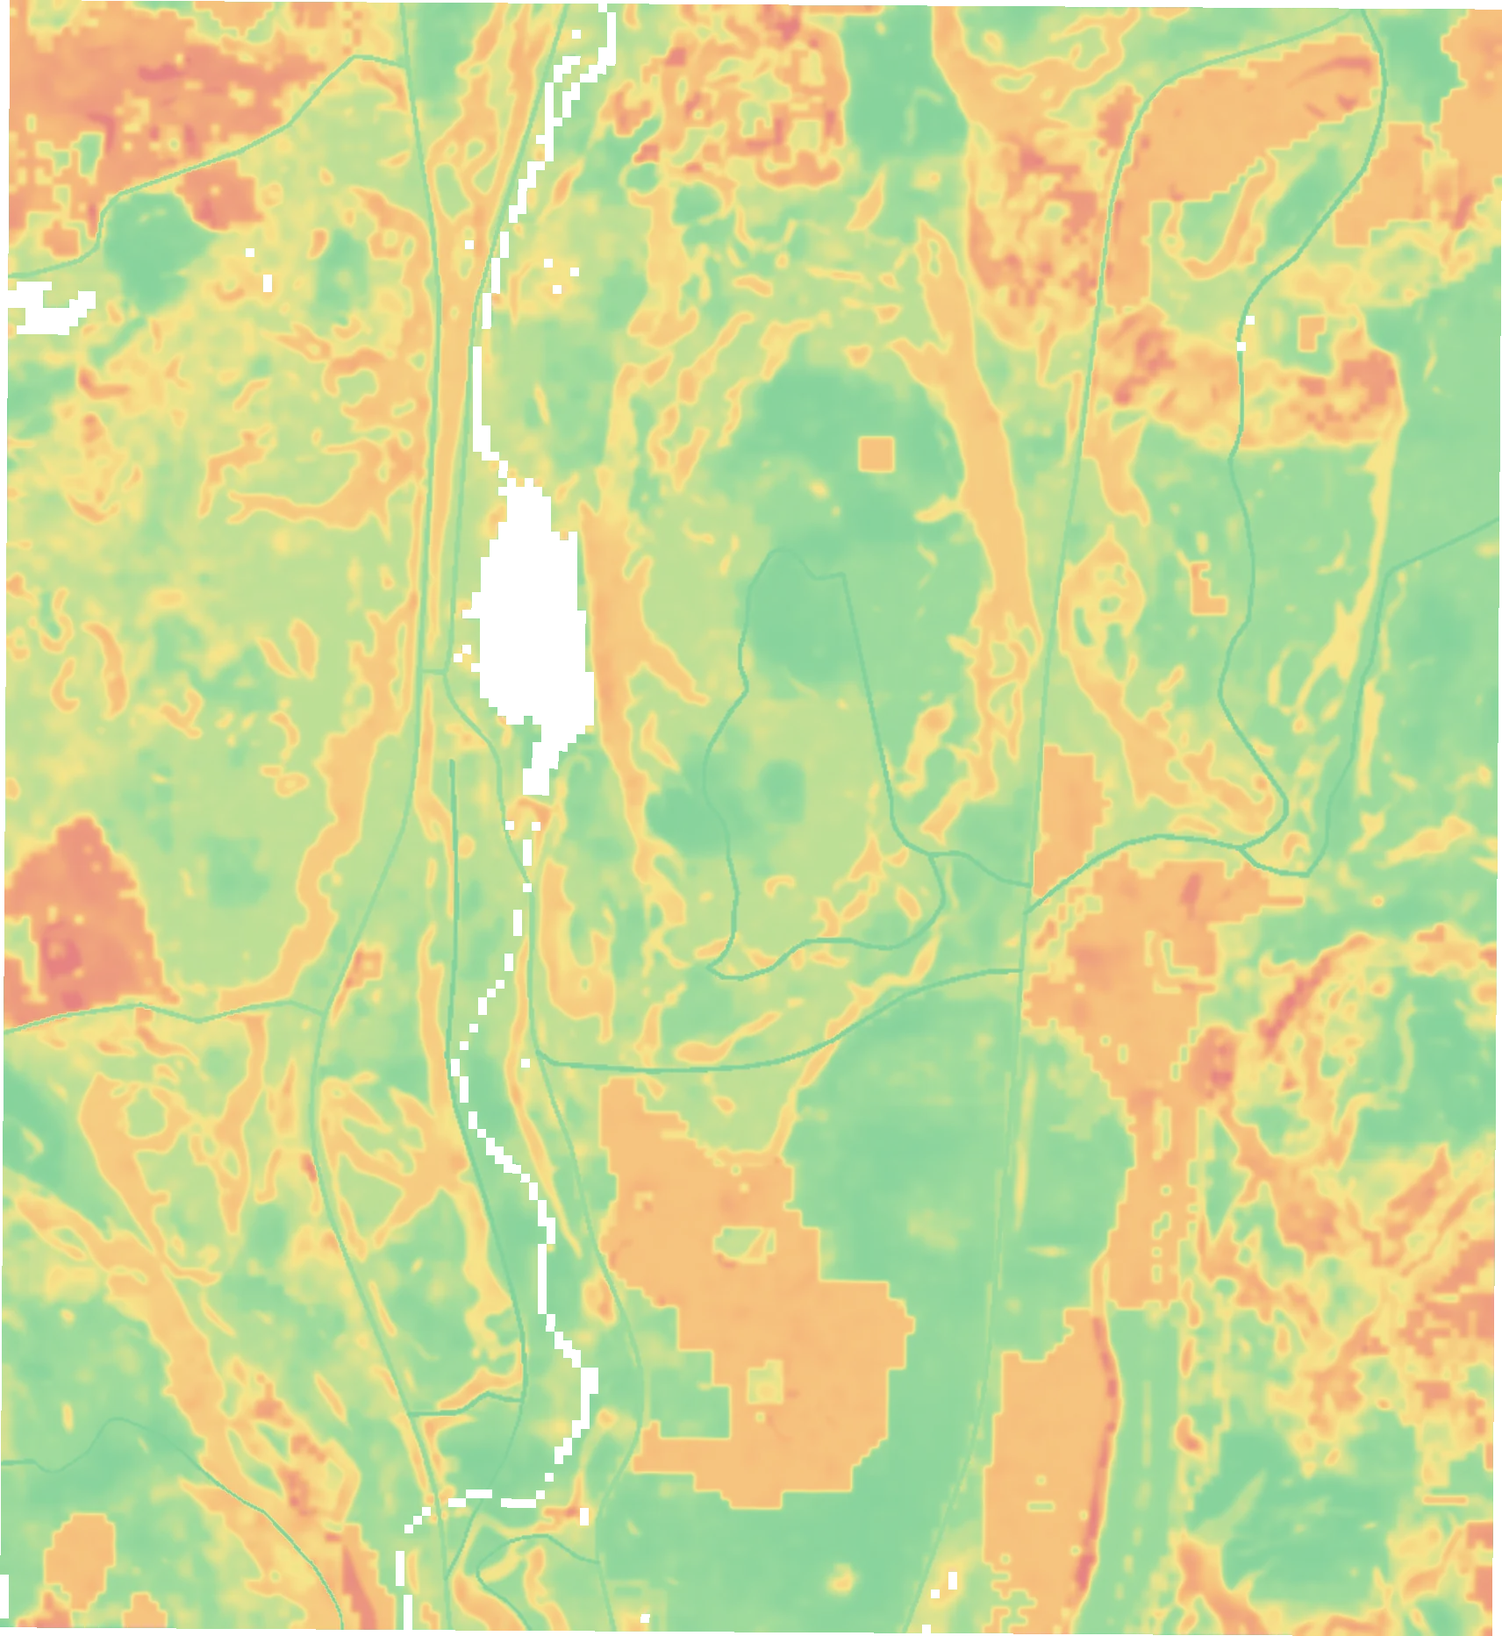
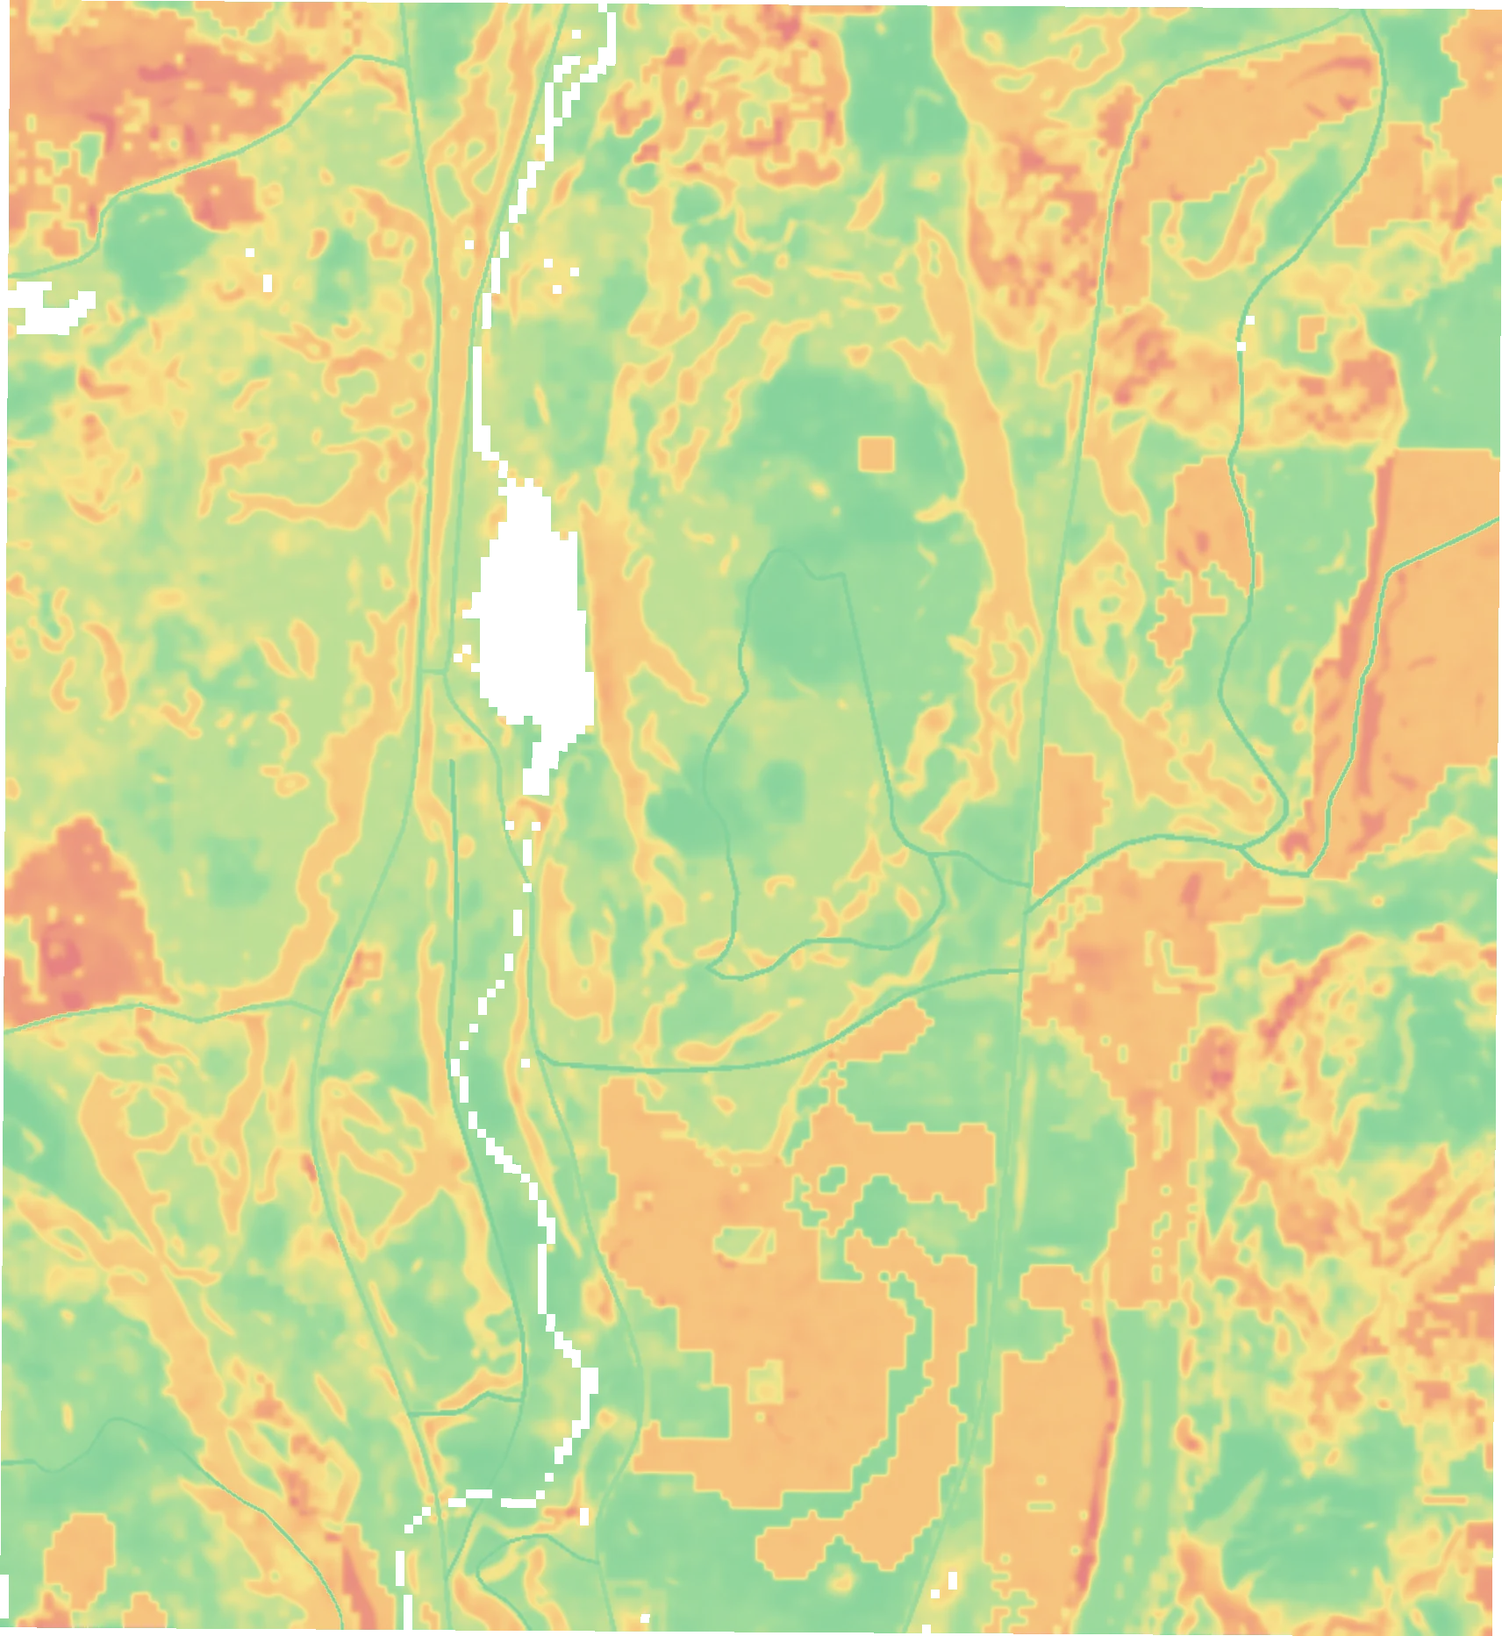
Satellite base map, new clearcuts since 2023 fed into forest map, Viltstigar and Tyst mark

diff --git a/sw.js b/sw.js
@@ -1,10 +1,10 @@
-// Offline support for the family map (filled in by scripts/build_site.py: 38f4895b72, 45dd3edf27, {"app": ["./", "version.json", "manifest.webmanifest", "firebase-config.js", "icon-180.png", "icon-192.png", "icon-512.png", "app.css?v=38f4895b72", "app.js?v=38f4895b72", "geo.js?v=38f4895b72", "i18n.js?v=38f4895b72", "jakt.js?v=38f4895b72", "maplibre-gl.css?v=38f4895b72", "view.js?v=38f4895b72", "wind.js?v=38f4895b72", "fb.js?v=38f4895b72"], "ext": ["https://cdnjs.cloudflare.com/ajax/libs/maplibre-gl/5.24.0/maplibre-gl.js", "https://fonts.googleapis.com/css2?family=Barlow+Condensed:wght@600;700&family=Barlow+Semi+Condensed:wght@400;500;600;700&family=IBM+Plex+Mono:wght@400;500&display=swap", "https://www.gstatic.com/firebasejs/11.0.2/firebase-app.js", "https://www.gstatic.com/firebasejs/11.0.2/firebase-auth.js", "https://www.gstatic.com/firebasejs/11.0.2/firebase-firestore.js"], "data": ["data/areas.json", "data/alnaryd/contours.geojson", "data/alnaryd/drainage.geojson", "data/alnaryd/forest_0_0.webp", "data/alnaryd/game.geojson", "data/alnaryd/game_0_0.png", "data/alnaryd/gamezones.geojson", "data/alnaryd/height_0_0.webp", "data/alnaryd/info.png", "data/alnaryd/manifest.json", "data/alnaryd/osm.geojson", "data/alnaryd/quiet_dry_0_0.webp", "data/alnaryd/quiet_wet_0_0.webp", "data/alnaryd/relief_0_0.webp", "data/alnaryd/reserves.geojson", "data/alnaryd/steep_0_0.png", "data/alnaryd/terrain.png", "data/alnaryd/wet_0_0.png", "data/alnaryd/wind.json", "data/alnaryd/wind.png", "glyphs/0-255.txt", "glyphs/256-511.txt"]}, [[15.398225, 56.334191, 15.465921999999999, 56.374908, 8, 15]]).
+// Offline support for the family map (filled in by scripts/build_site.py: 5fc6154494, 883bdf03be, {"app": ["./", "version.json", "manifest.webmanifest", "firebase-config.js", "icon-180.png", "icon-192.png", "icon-512.png", "app.css?v=5fc6154494", "app.js?v=5fc6154494", "geo.js?v=5fc6154494", "i18n.js?v=5fc6154494", "jakt.js?v=5fc6154494", "maplibre-gl.css?v=5fc6154494", "view.js?v=5fc6154494", "wind.js?v=5fc6154494", "fb.js?v=5fc6154494"], "ext": ["https://cdnjs.cloudflare.com/ajax/libs/maplibre-gl/5.24.0/maplibre-gl.js", "https://fonts.googleapis.com/css2?family=Barlow+Condensed:wght@600;700&family=Barlow+Semi+Condensed:wght@400;500;600;700&family=IBM+Plex+Mono:wght@400;500&display=swap", "https://www.gstatic.com/firebasejs/11.0.2/firebase-app.js", "https://www.gstatic.com/firebasejs/11.0.2/firebase-auth.js", "https://www.gstatic.com/firebasejs/11.0.2/firebase-firestore.js"], "data": ["data/areas.json", "data/alnaryd/clearcuts.geojson", "data/alnaryd/contours.geojson", "data/alnaryd/drainage.geojson", "data/alnaryd/forest_0_0.webp", "data/alnaryd/game.geojson", "data/alnaryd/game_0_0.png", "data/alnaryd/gamezones.geojson", "data/alnaryd/height_0_0.webp", "data/alnaryd/info.png", "data/alnaryd/manifest.json", "data/alnaryd/osm.geojson", "data/alnaryd/quiet_dry_0_0.webp", "data/alnaryd/quiet_wet_0_0.webp", "data/alnaryd/relief_0_0.webp", "data/alnaryd/reserves.geojson", "data/alnaryd/sat_0_0.webp", "data/alnaryd/steep_0_0.png", "data/alnaryd/terrain.png", "data/alnaryd/wet_0_0.png", "data/alnaryd/wind.json", "data/alnaryd/wind.png", "glyphs/0-255.txt", "glyphs/256-511.txt"]}, [[15.398225, 56.334191, 15.465921999999999, 56.374908, 8, 15]]).
 // The app, the map data for the hunting ground and the elevation tiles around it are stored on the phone,
 // so the map, compass, wind and your own position work without coverage. Firebase queues writes by itself.
-const VER = "38f4895b72";
-const APP = "app-" + VER, DATA = "data-45dd3edf27", DEM = "dem-v1", EXT = "ext-v1";
+const VER = "5fc6154494";
+const APP = "app-" + VER, DATA = "data-883bdf03be", DEM = "dem-v1", EXT = "ext-v1";
 const EXT_HOSTS = ["cdnjs.cloudflare.com", "cdn.jsdelivr.net", "www.gstatic.com", "fonts.googleapis.com", "fonts.gstatic.com"];
-const PRECACHE = {"app": ["./", "version.json", "manifest.webmanifest", "firebase-config.js", "icon-180.png", "icon-192.png", "icon-512.png", "app.css?v=38f4895b72", "app.js?v=38f4895b72", "geo.js?v=38f4895b72", "i18n.js?v=38f4895b72", "jakt.js?v=38f4895b72", "maplibre-gl.css?v=38f4895b72", "view.js?v=38f4895b72", "wind.js?v=38f4895b72", "fb.js?v=38f4895b72"], "ext": ["https://cdnjs.cloudflare.com/ajax/libs/maplibre-gl/5.24.0/maplibre-gl.js", "https://fonts.googleapis.com/css2?family=Barlow+Condensed:wght@600;700&family=Barlow+Semi+Condensed:wght@400;500;600;700&family=IBM+Plex+Mono:wght@400;500&display=swap", "https://www.gstatic.com/firebasejs/11.0.2/firebase-app.js", "https://www.gstatic.com/firebasejs/11.0.2/firebase-auth.js", "https://www.gstatic.com/firebasejs/11.0.2/firebase-firestore.js"], "data": ["data/areas.json", "data/alnaryd/contours.geojson", "data/alnaryd/drainage.geojson", "data/alnaryd/forest_0_0.webp", "data/alnaryd/game.geojson", "data/alnaryd/game_0_0.png", "data/alnaryd/gamezones.geojson", "data/alnaryd/height_0_0.webp", "data/alnaryd/info.png", "data/alnaryd/manifest.json", "data/alnaryd/osm.geojson", "data/alnaryd/quiet_dry_0_0.webp", "data/alnaryd/quiet_wet_0_0.webp", "data/alnaryd/relief_0_0.webp", "data/alnaryd/reserves.geojson", "data/alnaryd/steep_0_0.png", "data/alnaryd/terrain.png", "data/alnaryd/wet_0_0.png", "data/alnaryd/wind.json", "data/alnaryd/wind.png", "glyphs/0-255.txt", "glyphs/256-511.txt"]};
+const PRECACHE = {"app": ["./", "version.json", "manifest.webmanifest", "firebase-config.js", "icon-180.png", "icon-192.png", "icon-512.png", "app.css?v=5fc6154494", "app.js?v=5fc6154494", "geo.js?v=5fc6154494", "i18n.js?v=5fc6154494", "jakt.js?v=5fc6154494", "maplibre-gl.css?v=5fc6154494", "view.js?v=5fc6154494", "wind.js?v=5fc6154494", "fb.js?v=5fc6154494"], "ext": ["https://cdnjs.cloudflare.com/ajax/libs/maplibre-gl/5.24.0/maplibre-gl.js", "https://fonts.googleapis.com/css2?family=Barlow+Condensed:wght@600;700&family=Barlow+Semi+Condensed:wght@400;500;600;700&family=IBM+Plex+Mono:wght@400;500&display=swap", "https://www.gstatic.com/firebasejs/11.0.2/firebase-app.js", "https://www.gstatic.com/firebasejs/11.0.2/firebase-auth.js", "https://www.gstatic.com/firebasejs/11.0.2/firebase-firestore.js"], "data": ["data/areas.json", "data/alnaryd/clearcuts.geojson", "data/alnaryd/contours.geojson", "data/alnaryd/drainage.geojson", "data/alnaryd/forest_0_0.webp", "data/alnaryd/game.geojson", "data/alnaryd/game_0_0.png", "data/alnaryd/gamezones.geojson", "data/alnaryd/height_0_0.webp", "data/alnaryd/info.png", "data/alnaryd/manifest.json", "data/alnaryd/osm.geojson", "data/alnaryd/quiet_dry_0_0.webp", "data/alnaryd/quiet_wet_0_0.webp", "data/alnaryd/relief_0_0.webp", "data/alnaryd/reserves.geojson", "data/alnaryd/sat_0_0.webp", "data/alnaryd/steep_0_0.png", "data/alnaryd/terrain.png", "data/alnaryd/wet_0_0.png", "data/alnaryd/wind.json", "data/alnaryd/wind.png", "glyphs/0-255.txt", "glyphs/256-511.txt"]};
 const DEM_BOXES = [[15.398225, 56.334191, 15.465921999999999, 56.374908, 8, 15]];   // [west, south, east, north, minZoom, maxZoom] around each hunting ground
 const DEM_URL = "https://tiles.mapterhorn.com/";
 

diff --git a/app.js b/app.js
@@ -78,7 +78,7 @@
 
   // ---------- preferences (this device only) ----------
   const prefs = (() => {
-    const defaults = { v: 3, windFlow: true, base: "forest", ov: { trails: true, contours: true, roads: true, reserve: false, boundary: true, sightings: true, wet: false, drainage: false, steep: false, game: false, quiet: false }, quietMode: "auto",
+    const defaults = { v: 3, windFlow: true, base: "forest", ov: { trails: true, contours: true, roads: true, reserve: false, boundary: true, sightings: true, wet: false, drainage: false, steep: false, game: false, quiet: false, cuts: true }, quietMode: "auto",
       wind: { from: 225, speed: 4 }, cones: true, exag: 1.6, tab: "map", view: true, target: 1.2, share: false, myCone: true };
     if (location.search.includes("shot=")) return defaults;
     try {
@@ -366,7 +366,7 @@
     // invisible anchors keep layer groups in order however late images are added
     for (const id of ["anchor-base", "anchor-overlays", "anchor-vectors"]) map.addLayer({ id, type: "background", layout: { visibility: "none" }, paint: { "background-opacity": 0 } });
 
-    for (const id of ["osm", "contours", "reserves", "drainage", "gamezones", "routeopts", "dayroutes", "trails", "places", "boundary", "mask", "sectors", "cones", "mycone", "routes", "tracks", "goto", "draft", "edit", "sightings", "me"]) {
+    for (const id of ["osm", "contours", "reserves", "drainage", "gamezones", "clearcuts", "routeopts", "dayroutes", "trails", "places", "boundary", "mask", "sectors", "cones", "mycone", "routes", "tracks", "goto", "draft", "edit", "sightings", "me"]) {
       map.addSource(id, { type: "geojson", data: FC() });
     }
 
@@ -385,6 +385,13 @@
       paint: { "line-color": "#1f6fb5", "line-opacity": .8, "line-width": ["interpolate", ["linear"], ["get", "ha"], 1.5, .8, 20, 2.2, 200, 3.4] } });
     map.addLayer({ id: "drainage-arrows", type: "symbol", source: "drainage", minzoom: 14.5,
       layout: { "symbol-placement": "line", "symbol-spacing": 70, "icon-image": "arrow-blue", "icon-size": .55, "icon-allow-overlap": true, "icon-ignore-placement": true } });
+    // clearcuts newer than the forest data, found in satellite images: a dashed white edge and how big
+    map.addLayer({ id: "cuts-fill", type: "fill", source: "clearcuts", paint: { "fill-color": "#ffffff", "fill-opacity": .08 } });
+    map.addLayer({ id: "cuts-line", type: "line", source: "clearcuts", layout: { "line-join": "round" },
+      paint: { "line-color": "#ffffff", "line-width": 2, "line-dasharray": [3, 2], "line-opacity": .9 } });
+    map.addLayer({ id: "cuts-label", type: "symbol", source: "clearcuts", minzoom: 14,
+      layout: { "text-field": ["get", "label"], "text-font": ["Open Sans Semibold"], "text-size": 12 },
+      paint: { "text-color": "#1b1f18", "text-halo-color": "#fff", "text-halo-width": 1.6 } });
     // game model: bedding (solid blue) and feeding (dashed yellow) outlines with a faint tint
     const ZONE = ["match", ["get", "k"], "bed", "#5ec8ff", "#ffe14d"];
     map.addLayer({ id: "gamezones-fill", type: "fill", source: "gamezones", paint: { "fill-color": ZONE, "fill-opacity": .1 } });
@@ -513,7 +520,7 @@
     // data
     addImageSet(prefs.base, "anchor-base");
     // vector layers: one file per area, merged into one map source each
-    for (const k of ["osm", "reserves", "drainage", "contours", "gamezones"]) {
+    for (const k of ["osm", "reserves", "drainage", "contours", "gamezones", "clearcuts"]) {
       Promise.all(manifests.map((m) => getFresh(`data/${m.id}/${k}.geojson`).catch(() => FC())))
         .then((parts) => { vectors[k] = parts.flatMap((d) => d.features); map.getSource(k).setData(FC(vectors[k])); if (k === "osm") Router.base = null; });
     }
@@ -537,12 +544,13 @@
     sightings: ["sightings", "sightings-label"],
     boundary: ["mask", "boundary-line"],
     drainage: ["drainage", "drainage-arrows"],
+    cuts: ["cuts-fill", "cuts-line", "cuts-label"],
     game: ["gamezones-fill", "gamezones-case", "gamezones-bed", "gamezones-food"],
     trails: ["trails-case", "trails", "trails-label", "places-dot", "places-label"],
   };
   function applyLayers() {
     if (!manifests.length) return;
-    for (const b of ["forest", "relief", "height"]) setImageSetVisible(b, prefs.base === b);
+    for (const b of ["forest", "relief", "height", "sat"]) setImageSetVisible(b, prefs.base === b);
     for (const [k, ids] of Object.entries(OV_LAYERS)) ids.forEach((id) => map.getLayer(id) && map.setLayoutProperty(id, "visibility", prefs.ov[k] ? "visible" : "none"));
     setImageSetVisible("wet", prefs.ov.wet);
     setImageSetVisible("steep", prefs.ov.steep);
@@ -564,6 +572,9 @@
     } else if (prefs.base === "height") {
       el.innerHTML = `<i class="ramp" style="background:${HEIGHT_RAMP}"></i><div class="ramp-labels"><span>0 m</span><span>5</span><span>10</span><span>16</span><span>22</span><span>30 m</span></div>
         <div class="note small" style="grid-column:1/-1">Pale patches are open ground or young plantings; dark is tall, old forest.</div>`;
+    } else if (prefs.base === "sat") {
+      const d = manifests.map((m) => m.satDate).find(Boolean);
+      el.innerHTML = `<div class="note small" style="grid-column:1/-1">${esc(tr("Sentinel-2 satellite image, 10 m"))}${d ? ` · ${esc(new Date(d).toLocaleDateString("sv-SE", { day: "numeric", month: "short", year: "numeric" }))}` : ""}. ${esc(tr("Shows the ground as it is now: new clearcuts, felled and wind-thrown areas."))}</div>`;
     } else {
       el.innerHTML = `<div class="note small" style="grid-column:1/-1">Laser-scanned ground with the trees removed, lit from the northwest. Ditches, stone walls, boulders and old tracks stand out.</div>`;
     }

diff --git a/index.html b/index.html
@@ -12,17 +12,17 @@
 <link rel="manifest" href="manifest.webmanifest">
 <link rel="apple-touch-icon" href="icon-180.png">
 <link rel="icon" href="icon-192.png">
-<script>window.APP_VERSION = "38f4895b72";</script>
-<script src="firebase-config.js?v=38f4895b72"></script>
-<script type="module" src="fb.js?v=38f4895b72"></script>
+<script>window.APP_VERSION = "5fc6154494";</script>
+<script src="firebase-config.js?v=5fc6154494"></script>
+<script type="module" src="fb.js?v=5fc6154494"></script>
 </head>
 <body>
 <title>Alnaryd Hunting Map</title>
 <link rel="preconnect" href="https://fonts.googleapis.com">
 <link rel="preconnect" href="https://fonts.gstatic.com" crossorigin>
 <link rel="stylesheet" href="https://fonts.googleapis.com/css2?family=Barlow+Condensed:wght@600;700&family=Barlow+Semi+Condensed:wght@400;500;600;700&family=IBM+Plex+Mono:wght@400;500&display=swap">
-<link rel="stylesheet" href="maplibre-gl.css?v=38f4895b72">
-<link rel="stylesheet" href="app.css?v=38f4895b72">
+<link rel="stylesheet" href="maplibre-gl.css?v=5fc6154494">
+<link rel="stylesheet" href="app.css?v=5fc6154494">
 
 <script>document.documentElement.dataset.theme = "dark";</script>
 <div class="ios-top-band" aria-hidden="true"></div>
@@ -56,6 +56,7 @@
           <label><input type="radio" name="base" id="base-forest" value="forest" checked><span>Forest types</span></label>
           <label><input type="radio" name="base" id="base-relief" value="relief"><span>Terrain relief</span></label>
           <label><input type="radio" name="base" id="base-height" value="height"><span>Tree height</span></label>
+          <label><input type="radio" name="base" id="base-sat" value="sat"><span>Satellite</span></label>
         </div>
         <div id="legend" class="legend"></div>
 
@@ -65,6 +66,7 @@
           <li><label><input type="checkbox" id="ov-contours" data-ov="contours" checked><span class="sw sw-contour"></span>Contours <small>1 m · 5 m</small></label></li>
           <li><label><input type="checkbox" id="ov-roads" data-ov="roads" checked><span class="sw sw-road"></span>Roads, tracks &amp; paths</label></li>
           <li><label><input type="checkbox" id="ov-sightings" data-ov="sightings" checked><span class="sw sw-sight"></span>Sightings</label></li>
+          <li><label><input type="checkbox" id="ov-cuts" data-ov="cuts" checked><span class="sw sw-cuts"></span>New clearcuts <small>satellite 2026</small></label></li>
           <li><label><input type="checkbox" id="ov-game" data-ov="game"><span class="sw sw-game"></span>Game trails <small>model</small></label>
             <div class="game-legend" id="gameLegend" hidden>
               <span><i style="background:#ff1fb4"></i>Most likely trails</span><span><i style="background:#ff8fdc"></i>Other likely trails</span>
@@ -488,12 +490,12 @@
 </div>
 
 <script src="https://cdnjs.cloudflare.com/ajax/libs/maplibre-gl/5.24.0/maplibre-gl.js"></script>
-<script src="i18n.js?v=38f4895b72"></script>
-<script src="geo.js?v=38f4895b72"></script>
-<script src="view.js?v=38f4895b72"></script>
-<script src="wind.js?v=38f4895b72"></script>
-<script src="jakt.js?v=38f4895b72"></script>
-<script src="app.js?v=38f4895b72"></script>
+<script src="i18n.js?v=5fc6154494"></script>
+<script src="geo.js?v=5fc6154494"></script>
+<script src="view.js?v=5fc6154494"></script>
+<script src="wind.js?v=5fc6154494"></script>
+<script src="jakt.js?v=5fc6154494"></script>
+<script src="app.js?v=5fc6154494"></script>
 
 </body>
 </html>

diff --git a/i18n.js b/i18n.js
@@ -184,7 +184,8 @@
     "Blood tracking started. Mark what you find as you go.": "Eftersök startat. Markera det du hittar längs vägen.", "Recording your track. You can lock the phone; OwnTracks fills in the gaps.": "Spelar in ditt spår. Du kan låsa telefonen; OwnTracks fyller i luckorna.", 
     "Track": "Spår", "Blood tracking": "Eftersök", "Recording": "Spelar in", "live": "pågår", "· live": "· pågår", "Back online.": "Uppkopplad igen.",
     "No coverage. The map still works; positions and messages are sent when you're back online.": "Ingen täckning. Kartan fungerar ändå; positioner och meddelanden skickas när du har täckning igen.", "Seasons": "Jakttid", "No stands yet. Add one with +.": "Inga pass än. Lägg till med +.", "No stalk routes yet.": "Inga smygrutter än.", "Message the team": "Meddela laget", "On my stand": "På pass", "Leaving my stand": "Lämnar passet",
-    "Shot fired": "Skott", "Need help!": "Behöver hjälp!", "Tap the map where the animal is": "Tryck på kartan där djuret är", "Heard a sound": "Hörde ljud", "Route": "Väg", "Choose stand": "Välj pass", "No stands yet.": "Inga pass än.", "At the stand": "På plats", "Your hunt day": "Din jaktdag", "You have no stand yet. The leader places it.": "Du har inget pass än. Jaktledaren placerar det.",
+    "Shot fired": "Skott", "Need help!": "Behöver hjälp!", "Tap the map where the animal is": "Tryck på kartan där djuret är", "Heard a sound": "Hörde ljud", "Route": "Väg", "Choose stand": "Välj pass", "Satellite": "Satellit", "New clearcuts": "Nya hyggen", "satellite 2026": "satellit 2026", "Sentinel-2 satellite image, 10 m": "Satellitbild Sentinel-2, 10 m",
+    "Shows the ground as it is now: new clearcuts, felled and wind-thrown areas.": "Visar marken som den ser ut nu: nya hyggen, avverkat och vindfällen.", "No stands yet.": "Inga pass än.", "At the stand": "På plats", "Your hunt day": "Din jaktdag", "You have no stand yet. The leader places it.": "Du har inget pass än. Jaktledaren placerar det.",
     "Your stand": "Ditt pass", "Show the way": "Visa vägen", "Show my stand": "Visa mitt pass", "Shooting light today": "Skjutljus i dag", "Who sits where": "Vem sitter var",
     "Your stand has been moved. Tap to see it on the map.": "Ditt pass har flyttats. Tryck för att se på kartan.",
     "Your stand has been changed. Tap to see it on the map.": "Ditt pass har ändrats. Tryck för att se på kartan.",

diff --git a/app.css b/app.css
@@ -689,4 +689,5 @@ html.recording .map-legend { bottom: calc(132px + env(safe-area-inset-bottom, 0p
 #familyList li > .btn { margin-left: 0; }
 #familyList li > .btn:first-of-type { margin-left: 36px; }
 .ready-chip { white-space: nowrap; }
+.sw-cuts { border: 2px dashed #fff; background: rgb(255 255 255 / .12); border-radius: 3px; }
 
